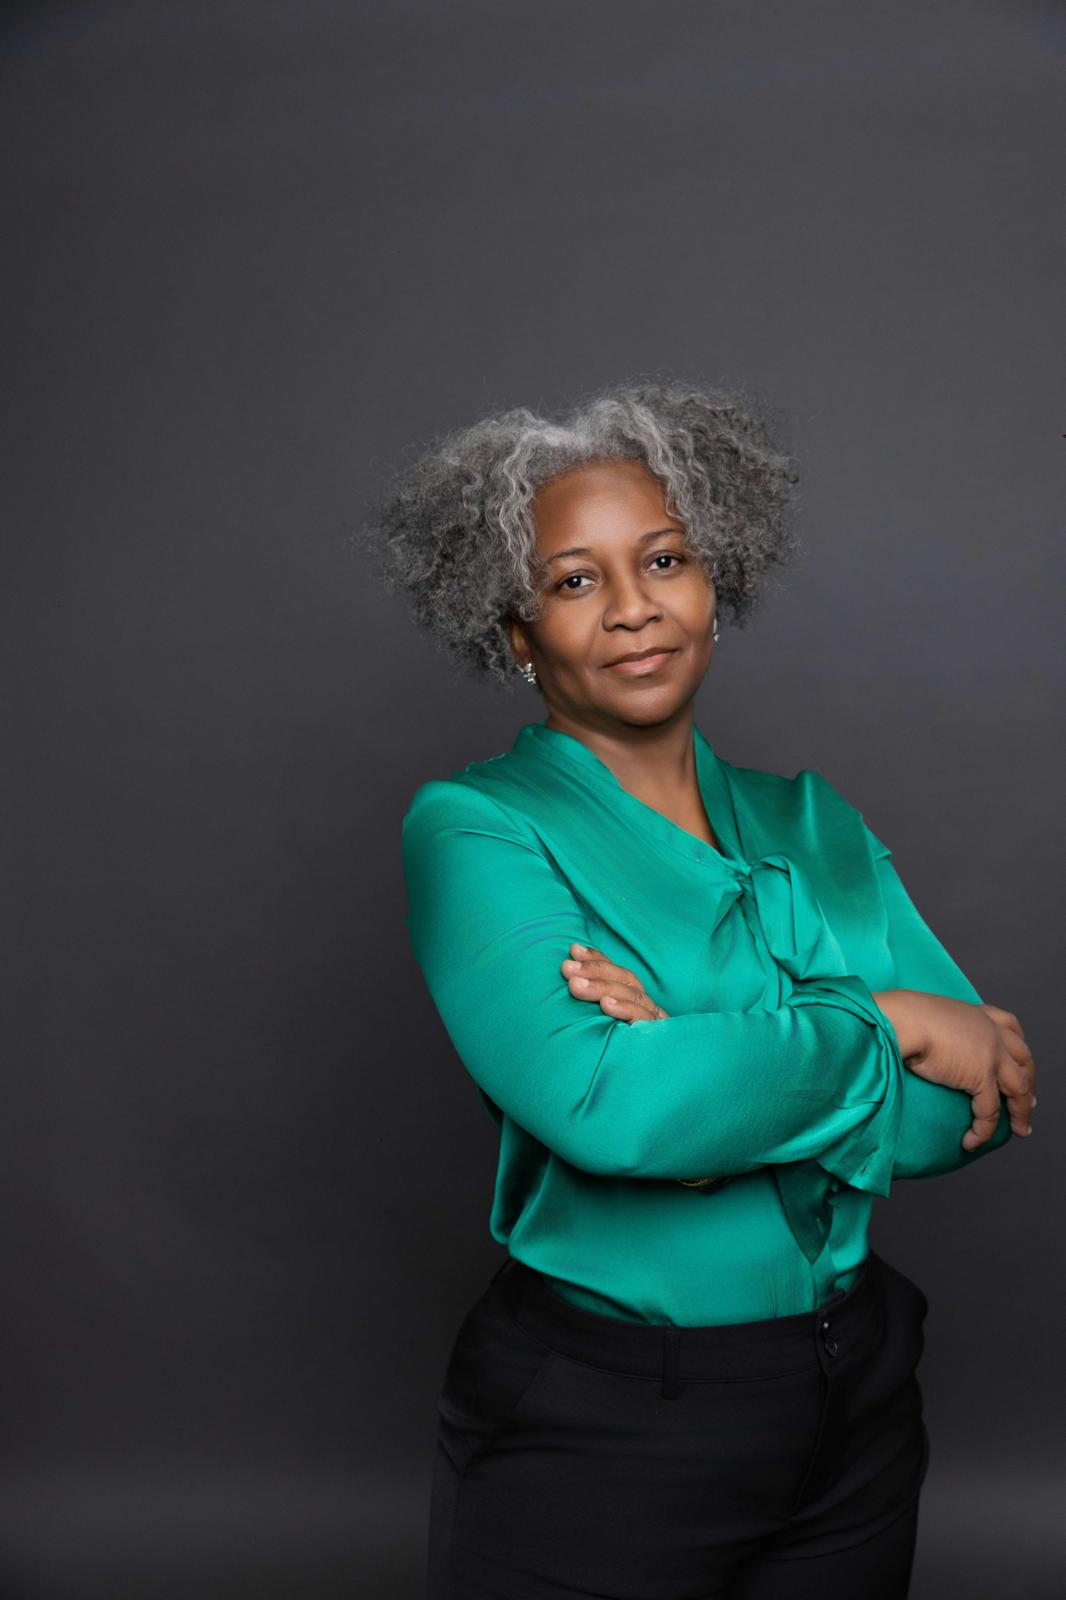
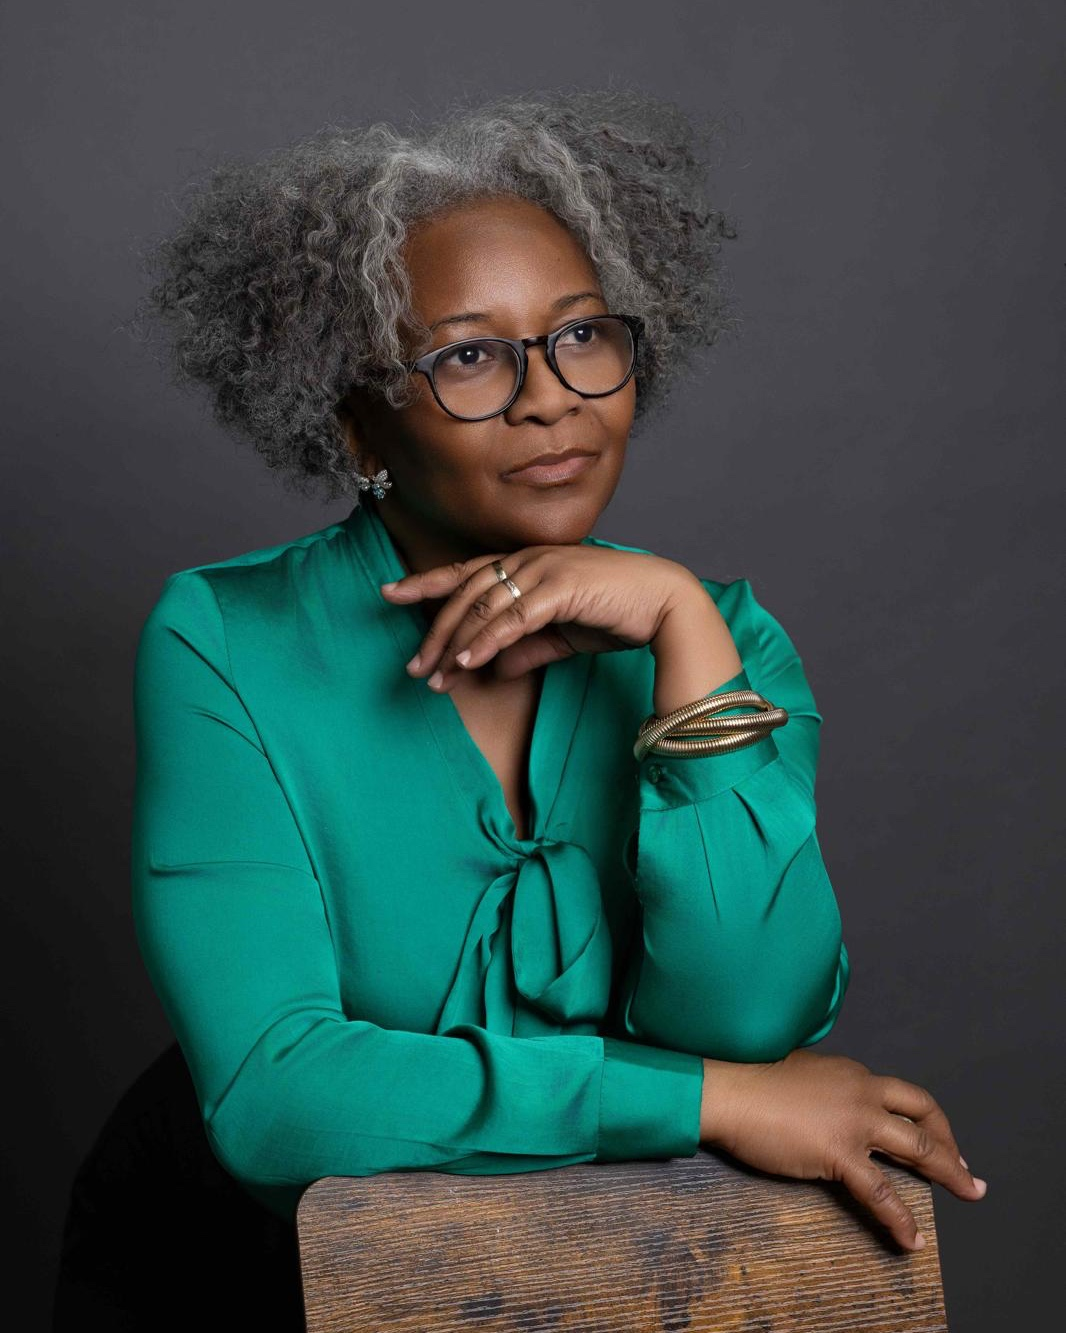
Give her the portraits she paid a photographer for
Both pictures beside her story were raw copies of a WhatsApp export,
cropped by the browser rather than by anyone. Of the eight studio frames
she sat for, the home page now carries the one where she is closest and
most present, and the atelier page a standing frame at a different scale
so the two do not read as the same photograph twice. Both are cut to 4:5
in the file, so the frame you see is the frame that was chosen.

Their alt text described the old poses, so it is rewritten in both
languages: an alt that lies is worse than no alt at all.

The last two 464px stills lifted from her process video are gone. They
sat in a 40vw slot and a 55vw slot, upscaled two and a half times, on
the home page and on Services. In their place: her fabric room and a
client in a dress made for her, both cut from originals large enough
that nothing is invented.

Photographs are now served at quality 85 rather than next/image's
default 75. The number was measured, not assumed — on the wax print at
2x the thin white rays are visibly cleaner at 85 than at 75, and I could
not find a difference between 85 and 90 on any image here, so 85 is
where the extra bytes stop buying anything.

diff --git a/src/app/[locale]/page.tsx b/src/app/[locale]/page.tsx
@@ -14,6 +14,7 @@ import { ButtonLink, SectionHeading, Tag, TextLink } from "@/components/ui";
 import { LookbookGrid, StyleCard } from "@/components/style-card";
 import { GoogleBusiness } from "@/components/google-business";
 import { formatMoney } from "@/lib/money";
+import { PHOTO_QUALITY } from "@/lib/images";
 
 export default async function HomePage({
   params,
@@ -54,6 +55,7 @@ async function Hero() {
         alt=""
         fill
         priority
+        quality={PHOTO_QUALITY}
         sizes="100vw"
         className="object-cover object-[72%_18%]"
       />
@@ -118,8 +120,11 @@ async function Story() {
           src="/images/real/daysi-portrait.jpg"
           alt={t("storyPortraitAlt")}
           fill
+          quality={PHOTO_QUALITY}
           sizes="(min-width: 1024px) 40vw, 90vw"
-          className="object-cover object-top"
+          // The file is already cut to 4:5, so nothing here is deciding
+          // where her head sits — the crop was chosen, not defaulted.
+          className="object-cover"
         />
       </div>
       <div className="flex flex-col gap-7 lg:col-span-6 lg:col-start-7 lg:justify-end lg:pb-6">
@@ -182,6 +187,7 @@ async function Services() {
               src={service.image}
               alt=""
               fill
+              quality={PHOTO_QUALITY}
               sizes="(min-width: 768px) 34vw, 100vw"
               className="object-cover opacity-85 transition-all duration-[1.2s] ease-[cubic-bezier(0.22,0.61,0.36,1)] group-hover:scale-[1.04] group-hover:opacity-100"
             />
@@ -258,9 +264,10 @@ async function Alterations() {
       </div>
       <div className="relative aspect-4/5 overflow-hidden bg-paper-warm lg:col-span-5 lg:order-1">
         <Image
-          src="/images/real/daysi-sewing.jpg"
+          src="/images/real/workroom.jpg"
           alt=""
           fill
+          quality={PHOTO_QUALITY}
           sizes="(min-width: 1024px) 40vw, 90vw"
           className="object-cover"
         />
@@ -304,6 +311,7 @@ async function NextPremiere() {
             src={premiere.coverImage}
             alt=""
             fill
+            quality={PHOTO_QUALITY}
             sizes="(min-width: 1024px) 55vw, 90vw"
             className="object-cover"
           />

diff --git a/src/app/[locale]/atelier/page.tsx b/src/app/[locale]/atelier/page.tsx
@@ -4,6 +4,7 @@ import { business, translate } from "@/content";
 import type { Locale } from "@/i18n/routing";
 import { ButtonLink, Prose, SectionHeading } from "@/components/ui";
 import { GoogleBusiness } from "@/components/google-business";
+import { PHOTO_QUALITY } from "@/lib/images";
 
 export default async function AtelierPage({
   params,
@@ -24,6 +25,7 @@ export default async function AtelierPage({
           alt=""
           fill
           priority
+          quality={PHOTO_QUALITY}
           sizes="100vw"
           className="object-cover object-[38%_28%]"
         />
@@ -48,9 +50,10 @@ export default async function AtelierPage({
         </div>
         <div className="relative aspect-4/5 overflow-hidden bg-paper-warm">
           <Image
-            src="/images/real/daysi-portrait-seated.jpg"
+            src="/images/real/daysi-portrait-standing.jpg"
             alt={t("portraitAlt")}
             fill
+            quality={PHOTO_QUALITY}
             sizes="(min-width: 1024px) 45vw, 90vw"
             className="object-cover"
           />
@@ -80,6 +83,7 @@ export default async function AtelierPage({
             src="/images/real/atelier-shelves.jpg"
             alt=""
             fill
+            quality={PHOTO_QUALITY}
             sizes="(min-width: 1024px) 45vw, 90vw"
             className="object-cover"
           />

diff --git a/src/components/gallery-wall.tsx b/src/components/gallery-wall.tsx
@@ -4,6 +4,7 @@ import { useCallback, useEffect, useRef, useState } from "react";
 import Image from "next/image";
 import { useTranslations } from "next-intl";
 import type { GalleryCategoryId } from "@/content/types";
+import { PHOTO_QUALITY } from "@/lib/images";
 
 export type WallWork = {
   readonly id: string;
@@ -109,6 +110,7 @@ export function GalleryWall({
                 alt={work.caption}
                 width={work.width}
                 height={work.height}
+                quality={PHOTO_QUALITY}
                 sizes="(min-width: 1280px) 22vw, (min-width: 768px) 30vw, 45vw"
                 className="h-auto w-full transition-transform duration-[1.2s] ease-[cubic-bezier(0.22,0.61,0.36,1)] group-hover:scale-[1.03]"
               />
@@ -147,6 +149,7 @@ export function GalleryWall({
               alt={open.caption}
               width={open.width}
               height={open.height}
+              quality={PHOTO_QUALITY}
               sizes="92vw"
               className="max-h-full w-auto max-w-full object-contain"
               priority

diff --git a/src/lib/images.ts b/src/lib/images.ts
@@ -1,0 +1,18 @@
+/**
+ * How hard the optimizer is allowed to squeeze a photograph.
+ *
+ * next/image defaults to 75, which is the right average for a site whose
+ * pictures are decoration. Here they are the merchandise — the argument for a
+ * $325 dress is the register of the print and the sheen on the silk — so the
+ * default was measured rather than accepted.
+ *
+ * Comparing the same AVIF crop of `wax-print-shirt` at 2x, the thin white rays
+ * of the wax print are visibly cleaner at 85 than at 75. Between 85 and 90 I
+ * could not find a difference on any image on this site, and 90 costs another
+ * 16KB on a 1200px hero (75 → 117KB, 85 → 154KB, 90 → 170KB). So: 85, the
+ * point past which the extra bytes buy nothing the eye can locate.
+ *
+ * This is for the large photographic slots only. Office thumbnails keep the
+ * default, where the difference is invisible and the page is behind a login.
+ */
+export const PHOTO_QUALITY = 85;

diff --git a/src/components/style-card.tsx b/src/components/style-card.tsx
@@ -4,6 +4,7 @@ import { useLocale } from "next-intl";
 import { findPriceEntry, primaryPhoto, translate, type GarmentStyle } from "@/content";
 import { formatMoney } from "@/lib/money";
 import { Link, type Locale } from "@/i18n/routing";
+import { PHOTO_QUALITY } from "@/lib/images";
 
 /**
  * One piece in the lookbook.
@@ -32,6 +33,7 @@ export function StyleCard({ style, priority = false }: { style: GarmentStyle; pr
             alt={translate(photo.alt, locale)}
             fill
             priority={priority}
+            quality={PHOTO_QUALITY}
             sizes="(min-width: 1280px) 33vw, (min-width: 768px) 50vw, 100vw"
             className="object-cover transition-transform duration-[1.2s] ease-[cubic-bezier(0.22,0.61,0.36,1)] group-hover:scale-[1.03]"
           />

diff --git a/src/app/[locale]/collection/[slug]/page.tsx b/src/app/[locale]/collection/[slug]/page.tsx
@@ -17,6 +17,7 @@ import { routing, type Locale } from "@/i18n/routing";
 import { StyleOrderPanel } from "@/components/style-order-panel";
 import { LookbookGrid, StyleCard } from "@/components/style-card";
 import { Tag } from "@/components/ui";
+import { PHOTO_QUALITY } from "@/lib/images";
 
 export function generateStaticParams() {
   return routing.locales.flatMap((locale) =>
@@ -77,6 +78,7 @@ export default async function StylePage({
                 alt={translate(photo.alt, language)}
                 fill
                 priority
+                quality={PHOTO_QUALITY}
                 sizes="(min-width: 1024px) 55vw, 92vw"
                 className="object-cover"
               />

diff --git a/src/app/[locale]/services/page.tsx b/src/app/[locale]/services/page.tsx
@@ -4,6 +4,7 @@ import { services, translate } from "@/content";
 import type { Locale } from "@/i18n/routing";
 import { PageHeader } from "@/components/page-header";
 import { ButtonLink } from "@/components/ui";
+import { PHOTO_QUALITY } from "@/lib/images";
 
 /**
  * The three services, each given a band of its own.
@@ -51,6 +52,7 @@ export default async function ServicesPage({
                     src={service.image}
                     alt=""
                     fill
+                    quality={PHOTO_QUALITY}
                     sizes="(min-width: 1024px) 55vw, 90vw"
                     className="object-cover"
                   />

diff --git a/src/app/[locale]/alterations/page.tsx b/src/app/[locale]/alterations/page.tsx
@@ -6,6 +6,7 @@ import type { Locale } from "@/i18n/routing";
 import { formatMoney } from "@/lib/money";
 import { PageHeader } from "@/components/page-header";
 import { ButtonLink, SectionHeading } from "@/components/ui";
+import { PHOTO_QUALITY } from "@/lib/images";
 
 export default async function AlterationsPage({
   params,
@@ -71,6 +72,7 @@ export default async function AlterationsPage({
               src="/images/real/craft-detail.jpg"
               alt=""
               fill
+              quality={PHOTO_QUALITY}
               sizes="(min-width: 1024px) 45vw, 90vw"
               className="object-cover"
             />

diff --git a/src/app/[locale]/premieres/page.tsx b/src/app/[locale]/premieres/page.tsx
@@ -5,6 +5,7 @@ import type { Locale } from "@/i18n/routing";
 import { SectionHeading, Tag } from "@/components/ui";
 import { LookbookGrid, StyleCard } from "@/components/style-card";
 import { PremiereSignup } from "@/components/premiere-signup";
+import { PHOTO_QUALITY } from "@/lib/images";
 
 export default async function PremieresPage({
   params,
@@ -37,6 +38,7 @@ export default async function PremieresPage({
             alt=""
             fill
             priority
+            quality={PHOTO_QUALITY}
             sizes="100vw"
             className="object-cover object-[65%_center]"
           />

diff --git a/src/content/premieres.ts b/src/content/premieres.ts
@@ -69,7 +69,7 @@ export const services: readonly Service[] = [
       { en: "A written estimate before work begins", es: "Un estimado por escrito antes de empezar" },
       { en: "Two fittings included", es: "Dos pruebas incluidas" },
     ],
-    image: "/images/real/gingham-dress.jpg",
+    image: "/images/real/custom-dress.jpg",
   },
   {
     id: "alterations",

diff --git a/README.md b/README.md
@@ -227,8 +227,14 @@ items still outstanding in PRD Section 15.1:
   `public/images/real/`, `public/images/gallery/` and `public/brand/`. The
   generated stand-ins are deleted, and a test in `content/catalog.test.ts`
   states the rule that keeps them out: the atelier offers no cloth it cannot
-  show you. The workshop video still `daysi-sewing` is 464px — replace it with
-  a frame from a higher-quality export when one exists.
+  show you. The two 464px stills lifted from her process video are gone as
+  well: the home workroom picture and the custom-garment picture are now cut
+  from 3414×5120 originals, so nothing on the site is upscaled any more.
+
+  The photographs are served at `quality={PHOTO_QUALITY}` (85) rather than
+  next/image's default 75. The number was measured, not guessed — the
+  reasoning and the byte cost are in `lib/images.ts`. Office thumbnails keep
+  the default.
 
 - **The logo** is hers, knocked out of the white paper it was drawn on into
   `public/brand/`. It is a raster trace, so it is soft at very large sizes; a
